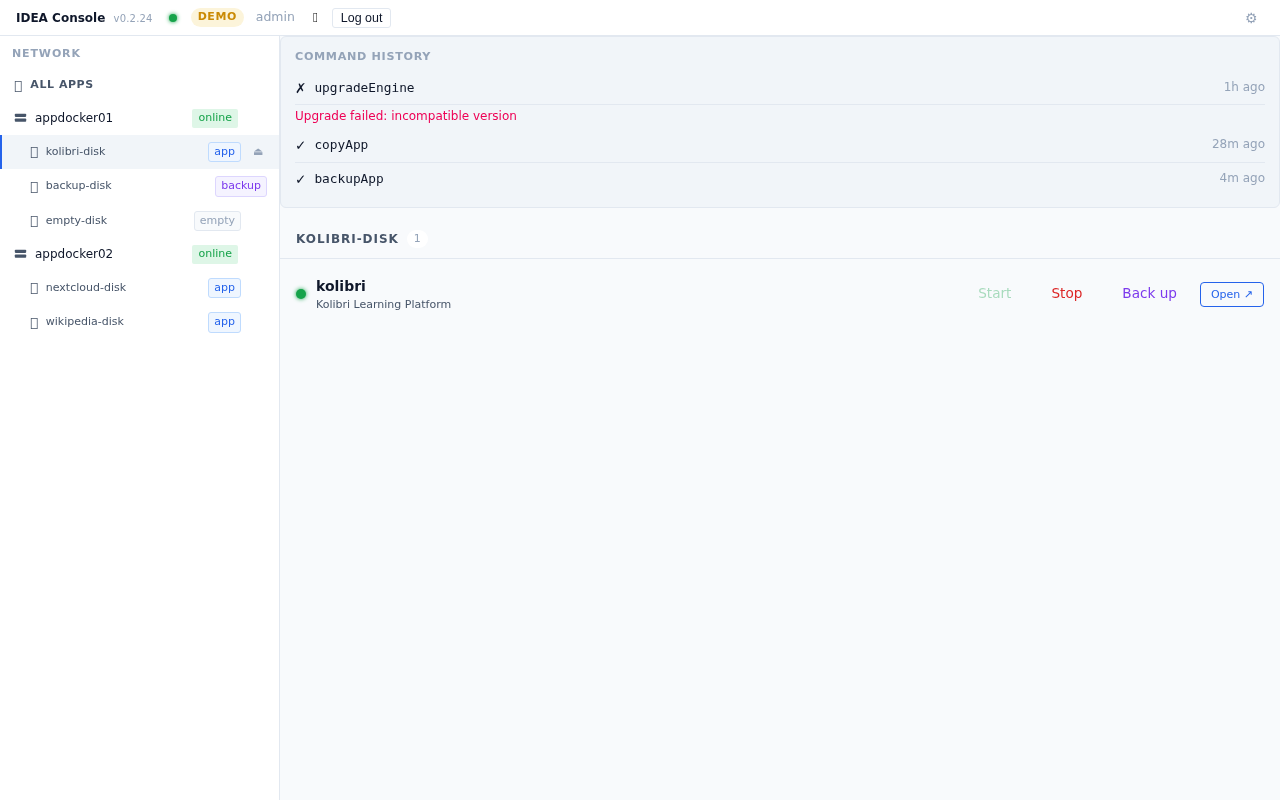
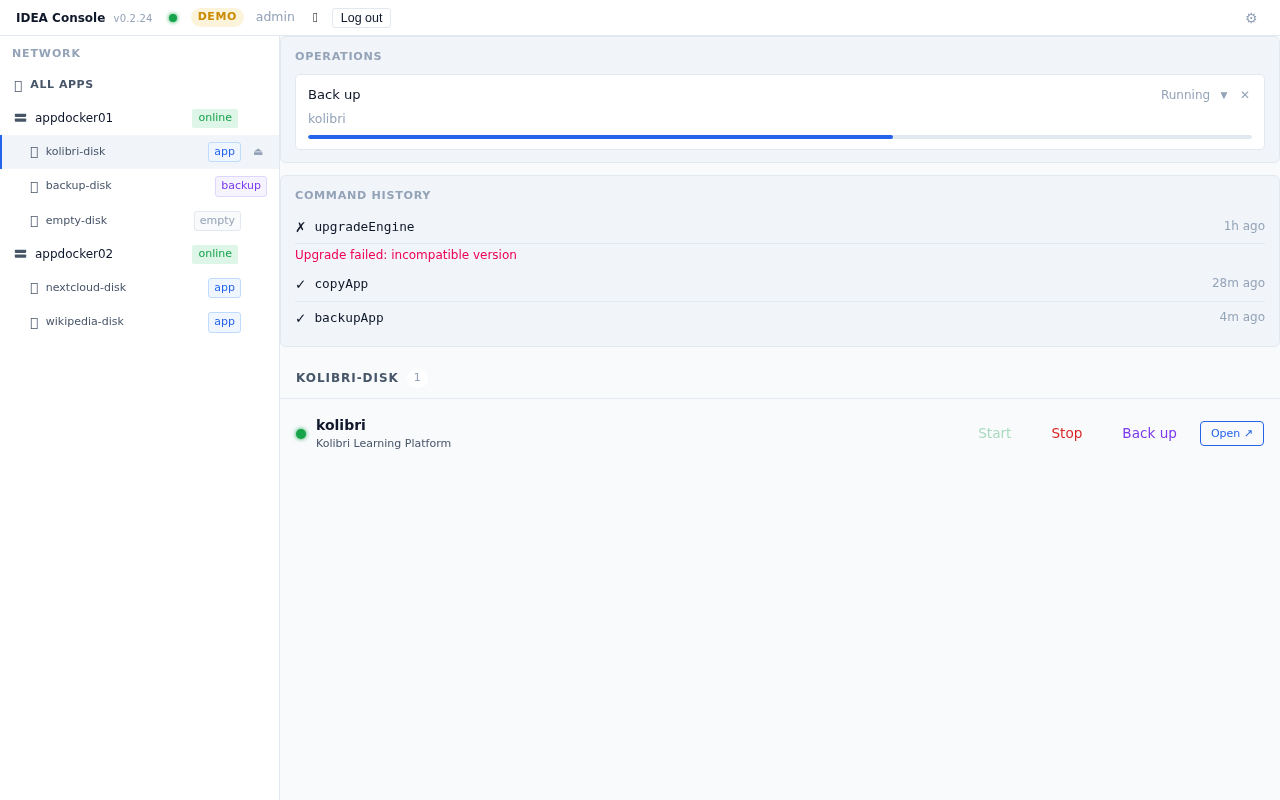
docs: add operation progress + command history screenshots to UI-DESIGN.md
- Added mock running operation to MOCK_STORE.operationDB (backupApp, 62%)
- Added S5-operation-progress, S5-command-history, S5-command-history-expanded
  screenshot steps to screenshot-screens.ts
- Updated UI-DESIGN.md Screen 5 section with screenshot references and
  expanded descriptions for both panels
- Refreshed all 17 screenshots

diff --git a/scripts/screenshot-screens.ts b/scripts/screenshot-screens.ts
@@ -133,6 +133,38 @@ async function main() {
       console.log('⚠ No backup disk in demo data — skipping S8');
     }
 
+    // S5-ops: Operation progress + live log panel
+    // First go back to All instances view to make sure OperationProgress is visible
+    await p.locator('.tree-item--network').click();
+    await p.waitForTimeout(400);
+    const opProgress = p.locator('.operation-progress');
+    if (await opProgress.count() > 0) {
+      // Expand the log on the running operation card
+      const logToggle = p.locator('.operation-card__log-toggle').first();
+      if (await logToggle.count() > 0) {
+        await logToggle.click();
+        await p.waitForTimeout(300);
+      }
+      await snap(p, 'S5-operation-progress');
+    } else {
+      console.log('⚠ No operation-progress element — skipping S5-operation-progress');
+    }
+
+    // S5-command-history: Command history panel (collapsed and expanded)
+    const cmdHistory = p.locator('.command-history');
+    if (await cmdHistory.count() > 0) {
+      await snap(p, 'S5-command-history');
+      // Expand the first trace row
+      const firstRow = p.locator('.command-history__row').first();
+      if (await firstRow.count() > 0) {
+        await firstRow.click();
+        await p.waitForTimeout(300);
+        await snap(p, 'S5-command-history-expanded');
+      }
+    } else {
+      console.log('⚠ No command-history element — skipping S5-command-history');
+    }
+
     // S6: Operator management
     await p.locator('.status-bar__operator-mgmt-btn').click();
     await p.locator('.operator-mgmt').waitFor({ timeout: 5_000 });

diff --git a/src/mock/mockStore.ts b/src/mock/mockStore.ts
@@ -340,7 +340,19 @@ export const MOCK_STORE: Store = {
       created: 0,
     },
   },
-  operationDB: {},
+  operationDB: {
+    'op-demo-001': {
+      id: 'op-demo-001',
+      kind: 'backupApp' as const,
+      args: { instanceName: 'kolibri', targetDiskName: 'backup-disk' },
+      engineId: ENGINE_1_ID,
+      status: 'Running' as const,
+      progressPercent: 62,
+      startedAt: Date.now() - 45 * 1000,
+      completedAt: null,
+      error: null,
+    },
+  },
 };
 
 // ---------------------------------------------------------------------------

diff --git a/design/UI-DESIGN.md b/design/UI-DESIGN.md
@@ -189,13 +189,21 @@ Each `InstanceRow` shows:
 
 **c) Restore Panel** — shown when a backup disk is selected → **Screen 8**
 
-**Operation Progress bar** — thin bar above the right panel, shows active engine operations (install, backup, restore, etc.) with a progress percentage and label. Running operations additionally show a **live log panel** (`LogLines`) that streams the command's log output in real time.
+**Operation Progress bar** — shown above the right-panel content area when active operations exist. Shows kind label, args summary, progress bar, and status. Running operations additionally show a **live log panel** (`LogLines`) that streams captured command output in real time.
 
-**Command History panel** — shown below the Operation Progress bar, above the right-panel content area. Lists recently completed commands (newest first). Each row shows:
+![S5 Operation Progress](screenshots/S5-operation-progress.png)
+
+**Command History panel** — shown below the Operation Progress bar, always visible while logged in. Lists recently completed commands (newest first). Each row shows:
 - ✓ / ✗ status icon + command name + time-ago label
-- Click to expand → `LogLines` viewer showing the full captured log for that trace
+- Click to expand → `LogLines` viewer with the full captured log for that trace
 - Error message shown inline for failed commands
 - "No command history yet" placeholder when empty
+
+![S5 Command History](screenshots/S5-command-history.png)
+
+*Expanded trace (click a row to reveal log lines):*
+
+![S5 Command History Expanded](screenshots/S5-command-history-expanded.png)
 
 **Files:** `src/components/CommandHistory.tsx`, `src/components/LogLines.tsx`, `src/store/commandLog.ts`, `src/types/commandLog.ts`
 
